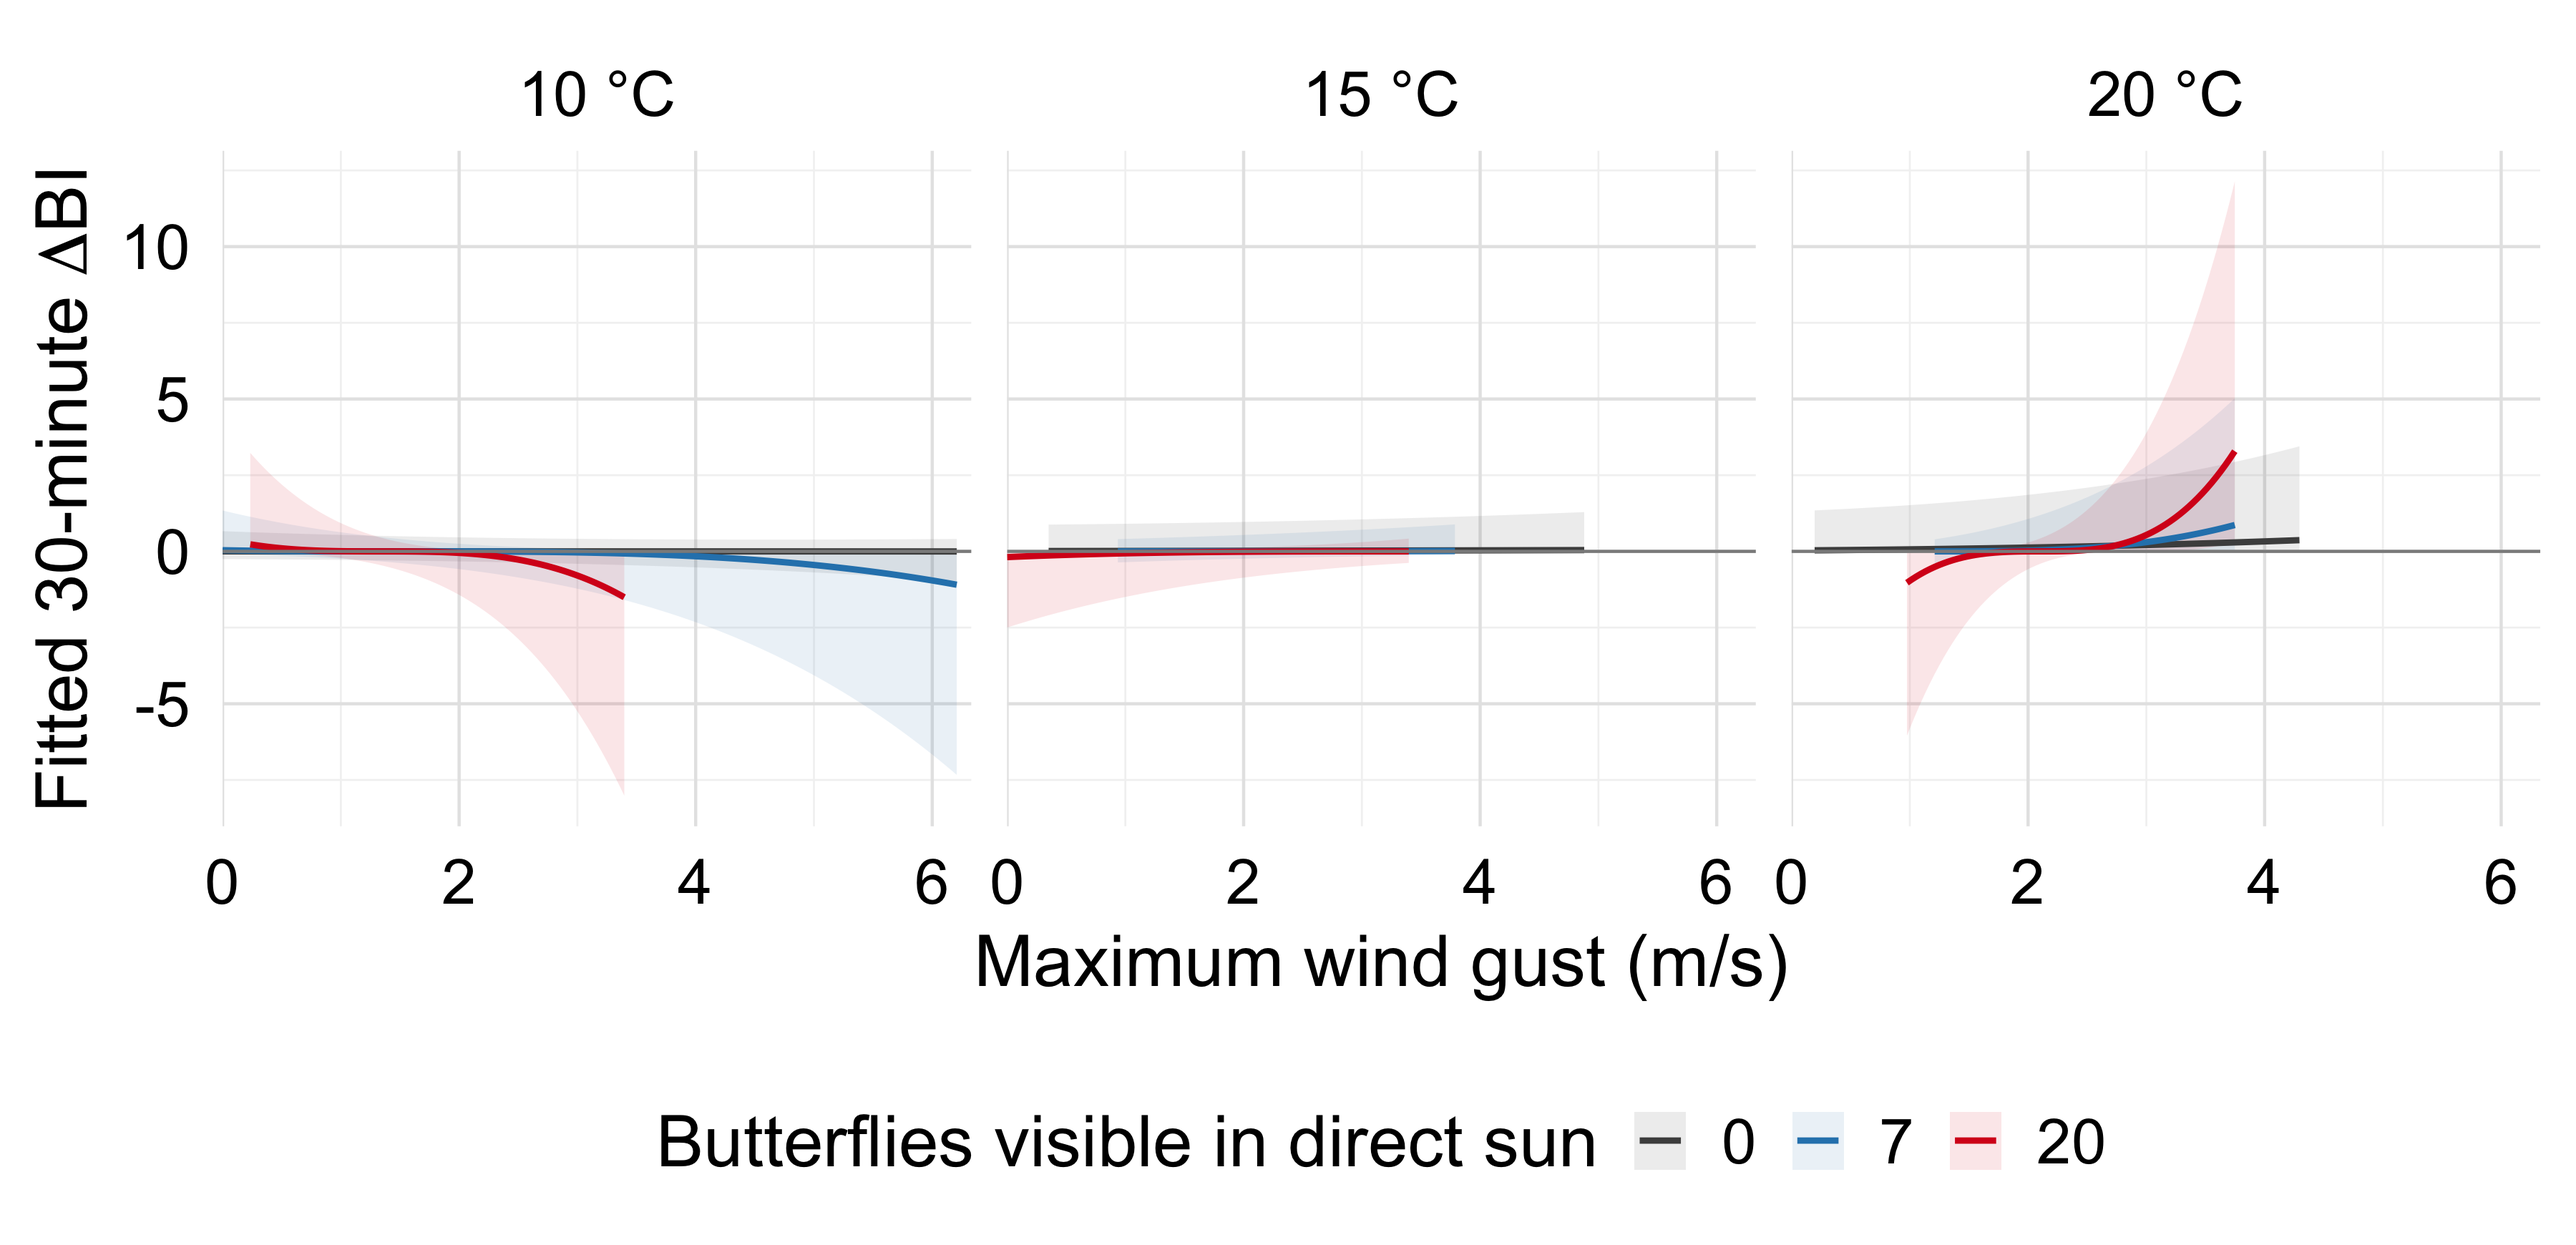
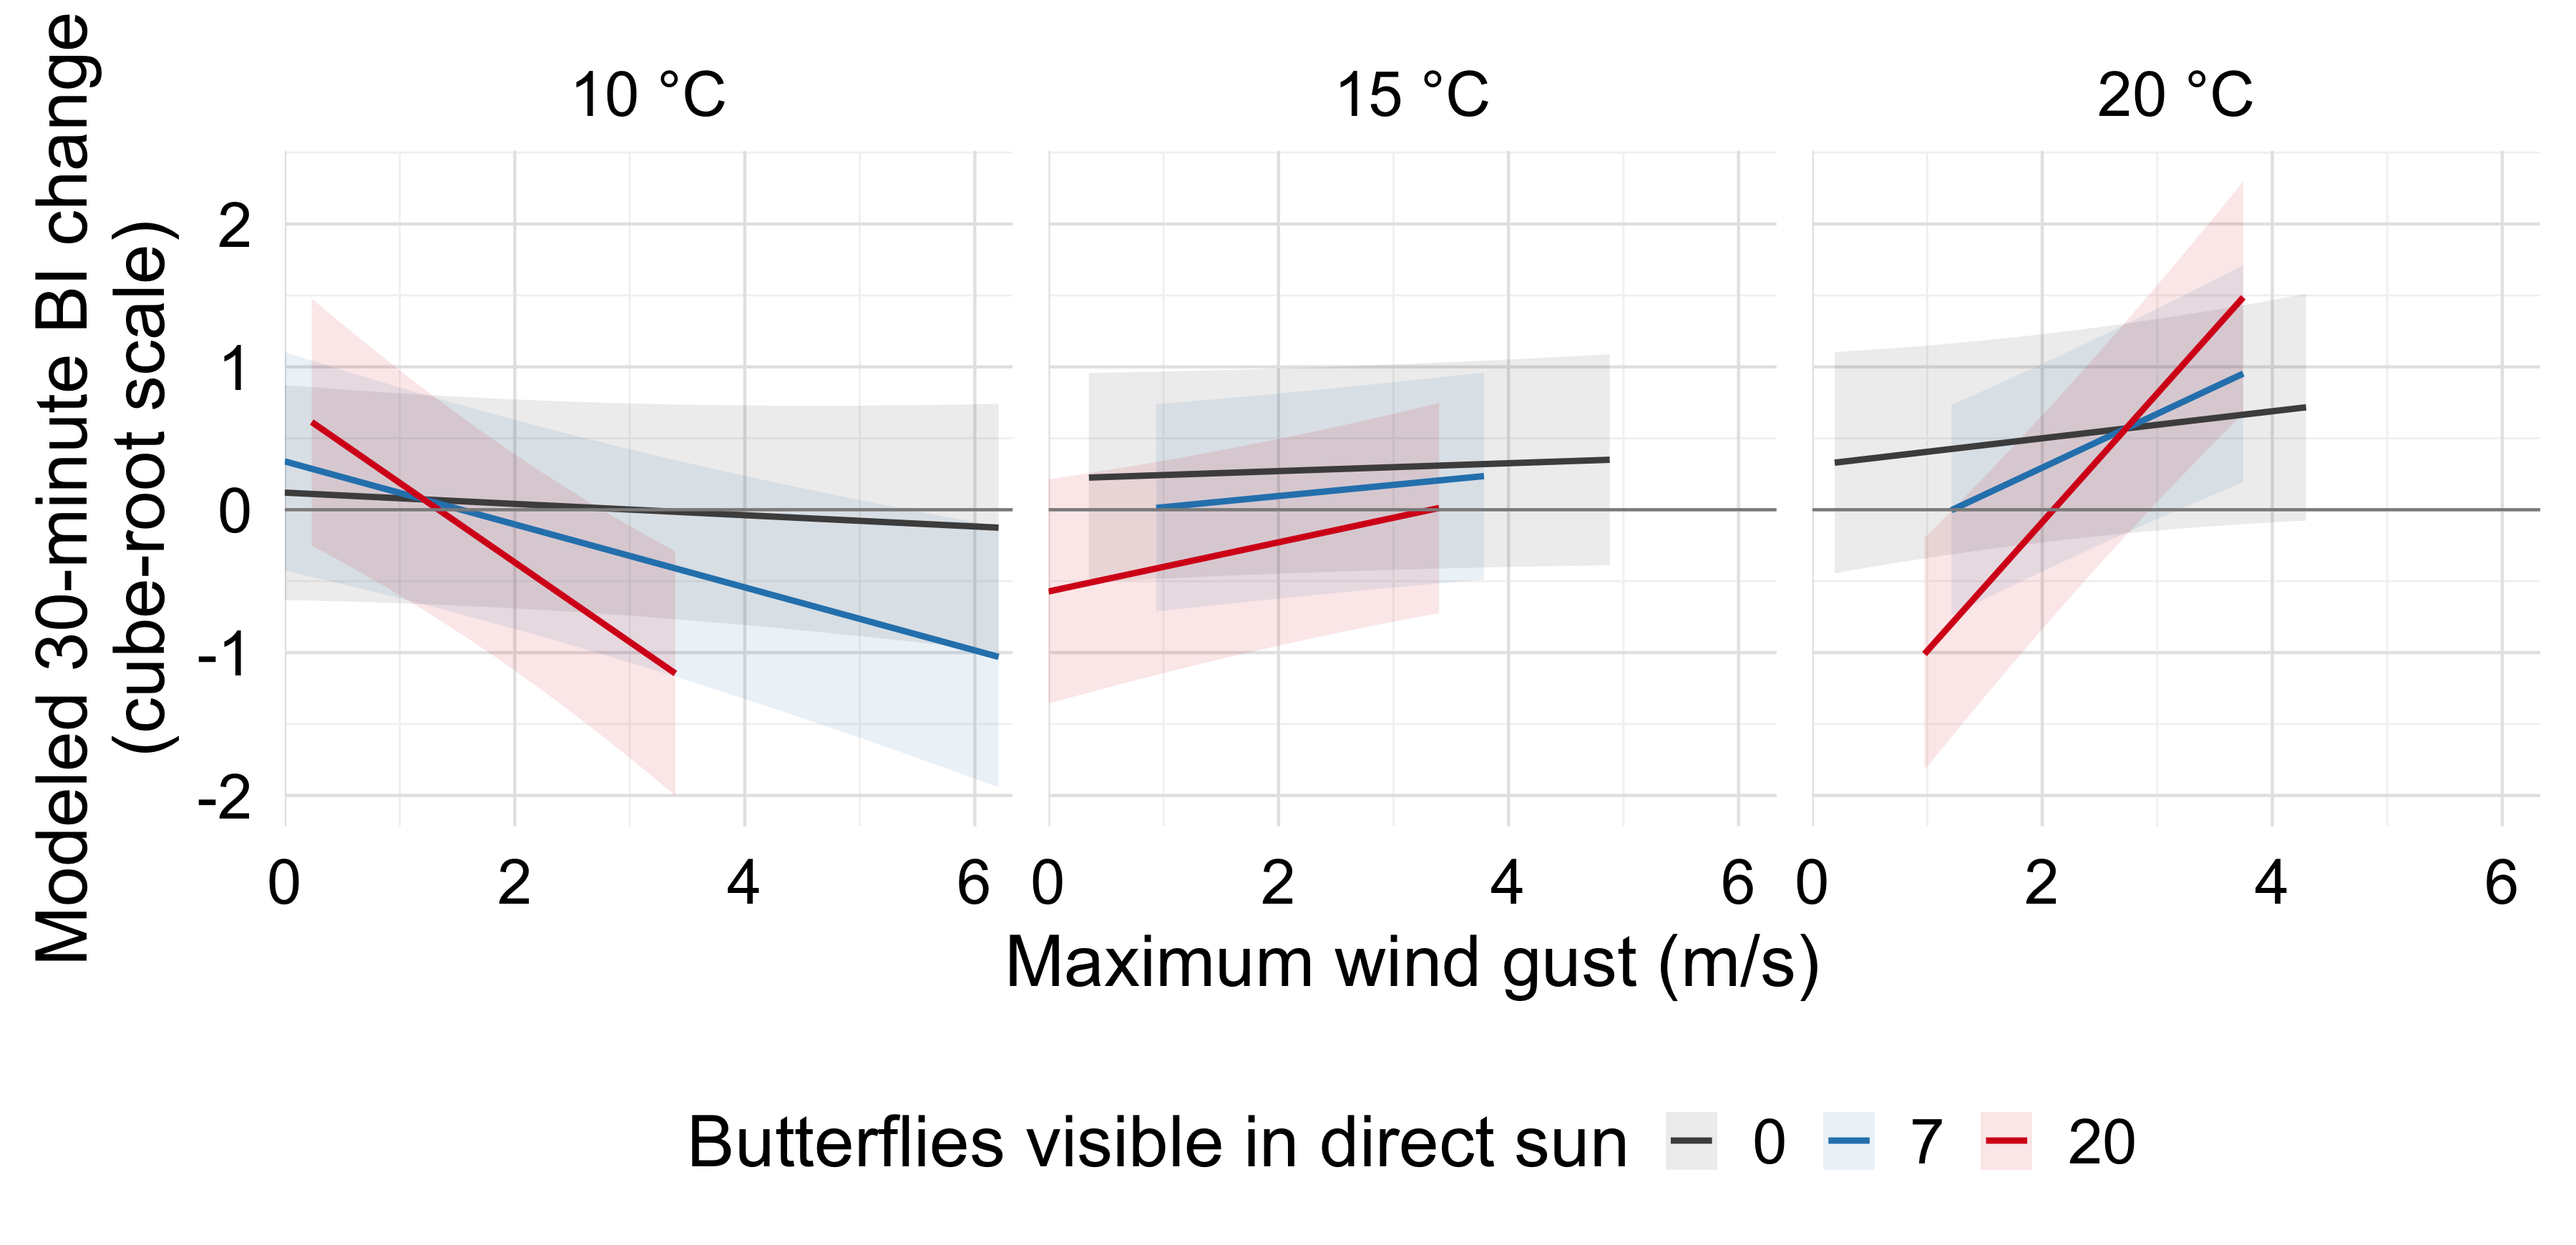
Restore transformed-scale M16 lines

diff --git a/manuscript.tex b/manuscript.tex
@@ -188,7 +188,7 @@ M16 accounted for 5.1\% of the variation in short-term BI change. Residual diagn
 \begin{figure}[H]
 \centering
 \includegraphics[width=0.98\textwidth]{analysis/outputs/30_minute/m16/figures/m16_predicted_response.png}
-\caption{Back-transformed fitted 30-minute change in Butterfly Index (BI) across the three-way interaction among maximum wind gust, temperature, and the number of butterflies visible in direct sun in model M16. The model was fitted to signed cube-root $\Delta$BI. Fitted values and interval endpoints were cubed for display in the original $\Delta$BI units. Previous BI is held at its median of 37. Values of 7 and 20 butterflies represent the median and 75th percentile among nonzero direct-sun observations. Each line is limited to the central 90\% of maximum gusts among the 50 observations nearest to its displayed temperature and direct-sun combination. Shading shows pointwise 95\% confidence intervals.}
+\caption{Modeled 30-minute change in Butterfly Index (BI) across the three-way interaction among maximum wind gust, temperature, and the number of butterflies visible in direct sun in model M16. Predictions are shown on the signed cube-root $\Delta$BI scale. Values above zero indicate increases in BI, and values below zero indicate decreases. Previous BI is held at its median of 37. Values of 7 and 20 butterflies represent the median and 75th percentile among nonzero direct-sun observations. Each line is limited to the central 90\% of maximum gusts among the 50 observations nearest to its displayed temperature and direct-sun combination. Shading shows pointwise 95\% confidence intervals.}
 \label{fig:m16_predicted_response}
 \end{figure}
 

diff --git a/analysis/outputs/30_minute/m16/README.md b/analysis/outputs/30_minute/m16/README.md
@@ -4,9 +4,9 @@ This directory contains the complete focused export for the selected 30-minute m
 
 The `tables` directory contains the fixed effects with confidence intervals, model-fit statistics, variance components, conditional wind effects, figure prediction values, and residual diagnostic statistics. The `text` directory contains the complete printed model output, figure conditions, and R session information.
 
-The primary interpretation figures are `m16_predicted_response.png` and `m16_conditional_wind_effect.png`. They use representative observed conditions and the manuscript's existing figure style. The manuscript response figure uses the supported-range line design from candidate B. Its fitted values and confidence interval endpoints are cubed so the vertical axis is in original delta BI units. These are back-transformed fitted changes, not means estimated directly on the raw delta BI scale. The remaining figures show residual diagnostics, ACF, and PACF.
+The primary interpretation figures are `m16_predicted_response.png` and `m16_conditional_wind_effect.png`. They use representative observed conditions and the manuscript's existing figure style. The manuscript response figure uses the supported-range line design from candidate B and displays fitted values on the signed cube-root response scale. Values above zero indicate increases in BI, and values below zero indicate decreases. The remaining figures show residual diagnostics, ACF, and PACF.
 
-The `figures/candidates` directory contains four alternatives for displaying the three-way interaction. Candidate A is the original line design across the overall plotted gust range and on the fitted cube-root scale. Candidate B is the selected manuscript design. It limits each line to the central 90 percent of gust values among the 50 observations nearest to that temperature and direct-sun combination, and it displays back-transformed fitted delta BI. Candidate C shows predicted response surfaces at 10, 15, and 20 degrees C. Points show observed combinations within 1.5 degrees C of each displayed temperature, and gray areas fall outside the convex hull of those observations. Candidate D maps the conditional wind slope across temperature and the direct-sun measure. It avoids selecting representative direct-sun values. Points show observed combinations, the black contour marks a wind slope of zero, and gray areas fall outside the convex hull of the observed temperature and direct-sun combinations.
+The `figures/candidates` directory contains four alternatives for displaying the three-way interaction. Candidate A is the original line design across the overall plotted gust range and on the fitted cube-root scale. Candidate B is the selected manuscript design. It limits each line to the central 90 percent of gust values among the 50 observations nearest to that temperature and direct-sun combination. Candidate C shows predicted response surfaces at 10, 15, and 20 degrees C. Points show observed combinations within 1.5 degrees C of each displayed temperature, and gray areas fall outside the convex hull of those observations. Candidate D maps the conditional wind slope across temperature and the direct-sun measure. It avoids selecting representative direct-sun values. Points show observed combinations, the black contour marks a wind slope of zero, and gray areas fall outside the convex hull of the observed temperature and direct-sun combinations.
 
 The support rules used for candidate B are recorded in `tables/m16_supported_line_ranges.csv`. Prediction data and support indicators for candidates B through D are stored in the corresponding CSV files in `tables`.
 
